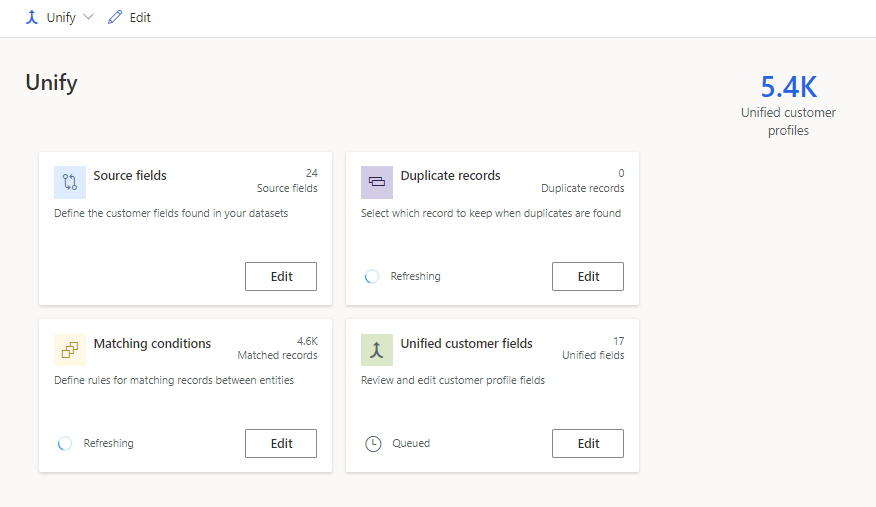
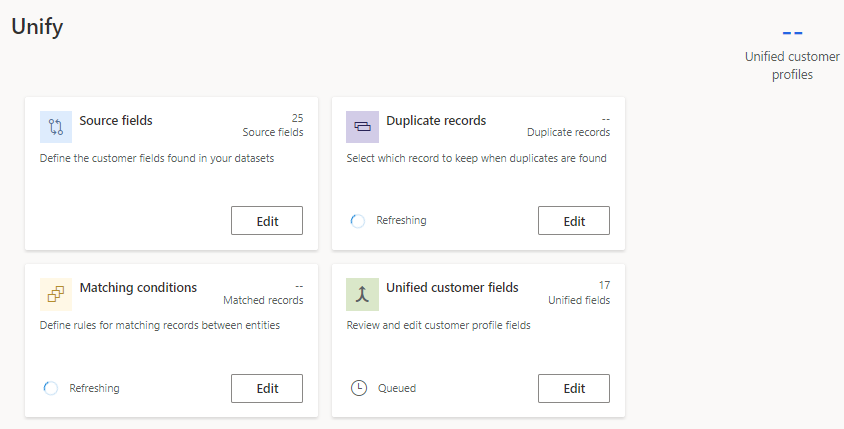
Add screenshot

diff --git a/ci-docs/review-unification.md b/ci-docs/review-unification.md
@@ -28,11 +28,13 @@ This last step in the unification process shows a summary of the steps in the pr
 
 1. Select **Edit** on any of the data unification steps to review and make any changes.
 
-1. If you are satisfied with your selections, select **Create customer profiles**. The **Unify** page displays while the unified customer profile is being created. All tiles except **Source fields** show **Queued** or **Refreshing** status. The unification algorithm takes some time to complete and you can't change the configuration until it completes.
+1. If you are satisfied with your selections, select **Create customer profiles**. The **Unify** page displays while the unified customer profile is being created. All tiles except **Source fields** show **Queued** or **Refreshing** status.
+
+:::image type="content" source="media/m3_unify_refreshing.png" alt-text="Screenshot of Unify page with tiles showing Queued or Refreshing.":::
 
    [!INCLUDE [progress-details-pane-include](includes/progress-details-pane.md)]
 
-When the unification process completes, the unified customer profile entity, called *Customer*, is listed on the **Entities** page in the **Profiles** section. The first successful unification run creates the unified *Customer* entity. All subsequent runs expand that entity.
+The unification algorithm takes some time to complete and you can't change the configuration until it completes. When the unification process completes, the unified customer profile entity, called *Customer*, is listed on the **Entities** page in the **Profiles** section. The first successful unification run creates the unified *Customer* entity. All subsequent runs expand that entity.
 
 ## Review the results of data unification
 
